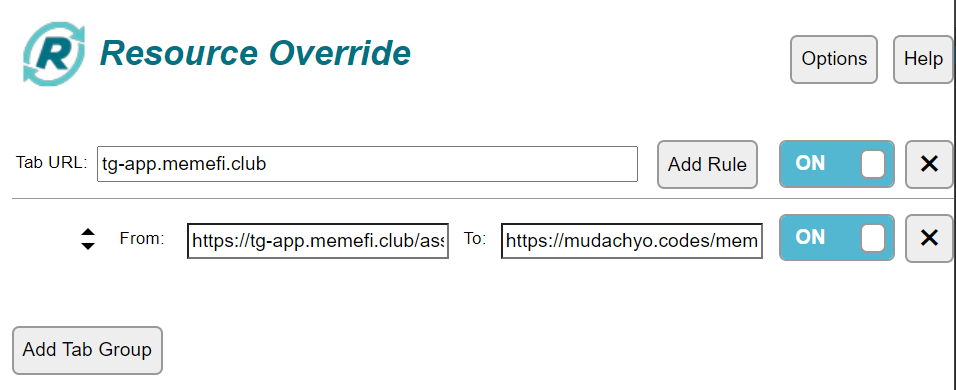
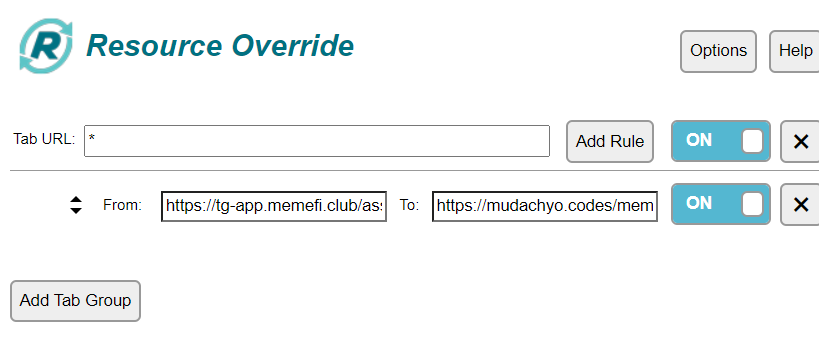
fix error

Changed region(s): [[0.0, 0.0, 1.0, 1.0], [0.0, 0.0592, 0.4579, 0.2367], [0.0, 0.8284, 0.1832, 0.9763]]

diff --git a/memefi-web.user.js b/memefi-web.user.js
@@ -1,6 +1,6 @@
 // ==UserScript==
 // @name         MemeFI web
-// @version      1.2
+// @version      1.3
 // @description  Running TapSwap in a browser
 // @author       mudachyo
 // @match        https://tg-app.memefi.club/*
@@ -32,8 +32,8 @@
     function checkConnectionFailed() {
         const errorElement = document.querySelector('h3.MuiTypography-root.MuiTypography-h3.css-gwcfg4');
         if (errorElement && errorElement.textContent.trim() === 'Connection Failed') {
-            const messageRu = 'Для того, чтобы исправить эту ошибку, вам необходимо установить Resource Override и указать в него необходимые настройки, которые указаны тут <a href="https://github.com/mudachyo/MemeFi-Coin/" style="color: #99ff99; text-shadow: 0 0 1px #000;">';
-            const messageEn = 'In order to fix this error, you need to install Resource Override and specify the necessary settings in it, which are listed here <a href="https://github.com/mudachyo/MemeFi-Coin/" style="color: #99ff99; text-shadow: 0 0 1px #000;">';
+            const messageRu = 'Для того, чтобы исправить эту ошибку, вам необходимо установить Resource Override и указать в него необходимые настройки, которые указаны <a href="https://github.com/mudachyo/MemeFi-Coin/" style="color: #99ff99; text-shadow: 0 0 1px #000;">тут</a>.';
+            const messageEn = 'In order to fix this error, you need to install Resource Override and specify the necessary settings in it, which are listed here <a href="https://github.com/mudachyo/MemeFi-Coin/" style="color: #99ff99; text-shadow: 0 0 1px #000;">here</a>.';
             const message = `${messageRu}<br><br>${messageEn}`;
             const div = document.createElement('div');
             div.innerHTML = message;

diff --git a/README.md b/README.md
@@ -11,7 +11,7 @@
 ## Исправление ошибки Connection Failed
 - Установить в свой бразуер расширение [Resource Override](https://chromewebstore.google.com/detail/resource-override/pkoacgokdfckfpndoffpifphamojphii)
 - Открыть настройки расширения и вписать следующие данные:
-- **Tab URL:** `tg-app.memefi.club`
+- **Tab URL:** `*`
 - **From:** `https://tg-app.memefi.club/assets/index-Bmcz72EK.js`
 - **To:** `https://mudachyo.codes/memefi/index-Bmcz72EK.js`
 ![Settings](settings.png)

diff --git a/README-EN.md b/README-EN.md
@@ -11,7 +11,7 @@
 ## Corrects Connection Failed error
 - Install the [Resource Override](https://chromewebstore.google.com/detail/resource-override/pkoacgokdfckfpndoffpifphamojphii) extension in your browser.
 - Open the extension settings and enter the following information:
-- **Tab URL:** `tg-app.memefi.club`
+- **Tab URL:** `*`
 - **From:** `https://tg-app.memefi.club/assets/index-Bmcz72EK.js`
 - **To:** `https://mudachyo.codes/memefi/index-Bmcz72EK.js`
 ![Settings](settings.png)
